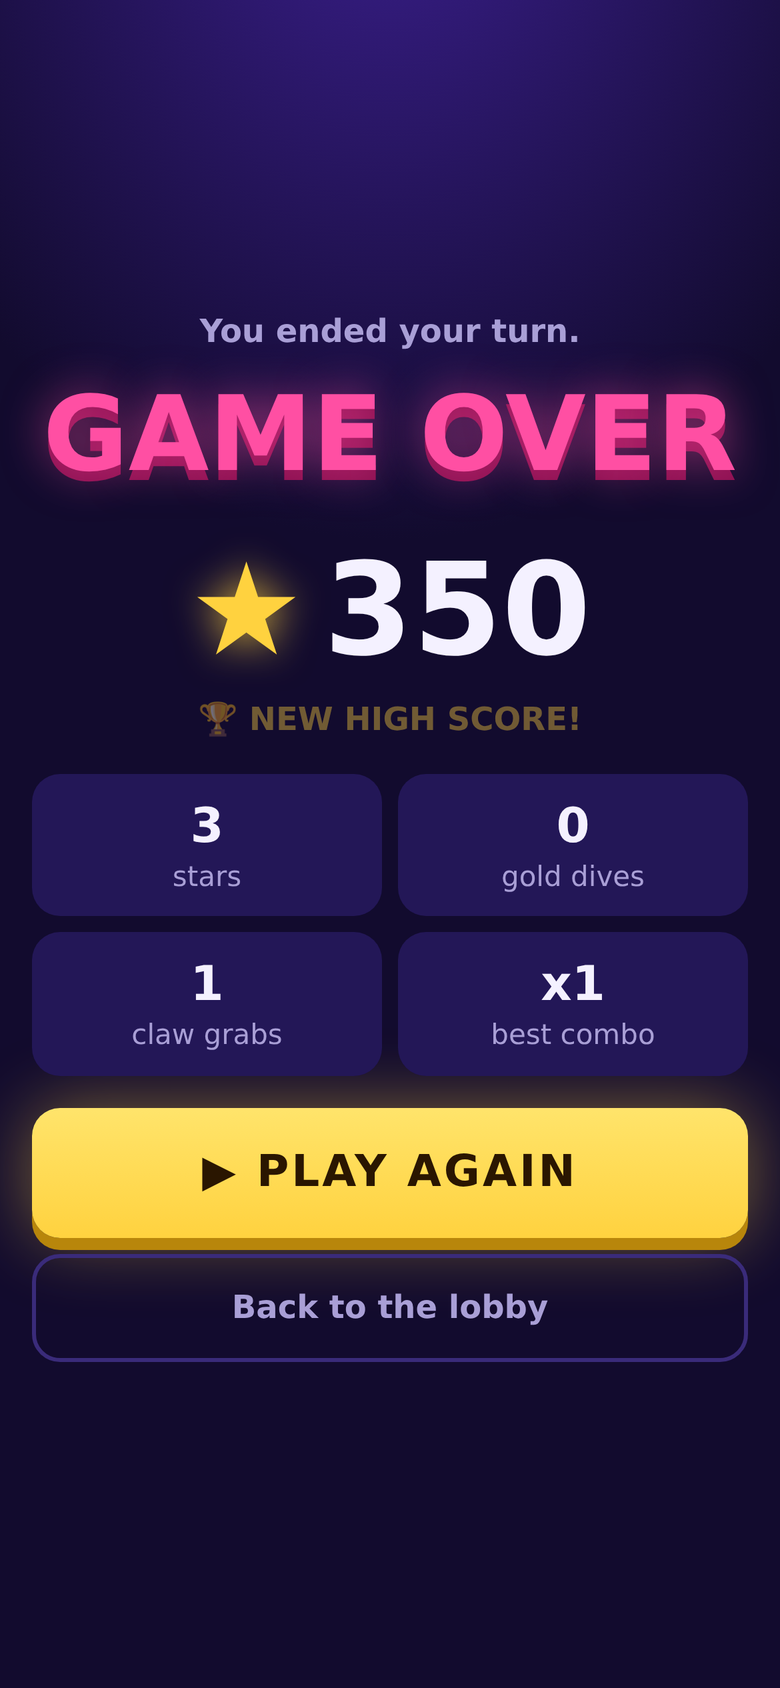
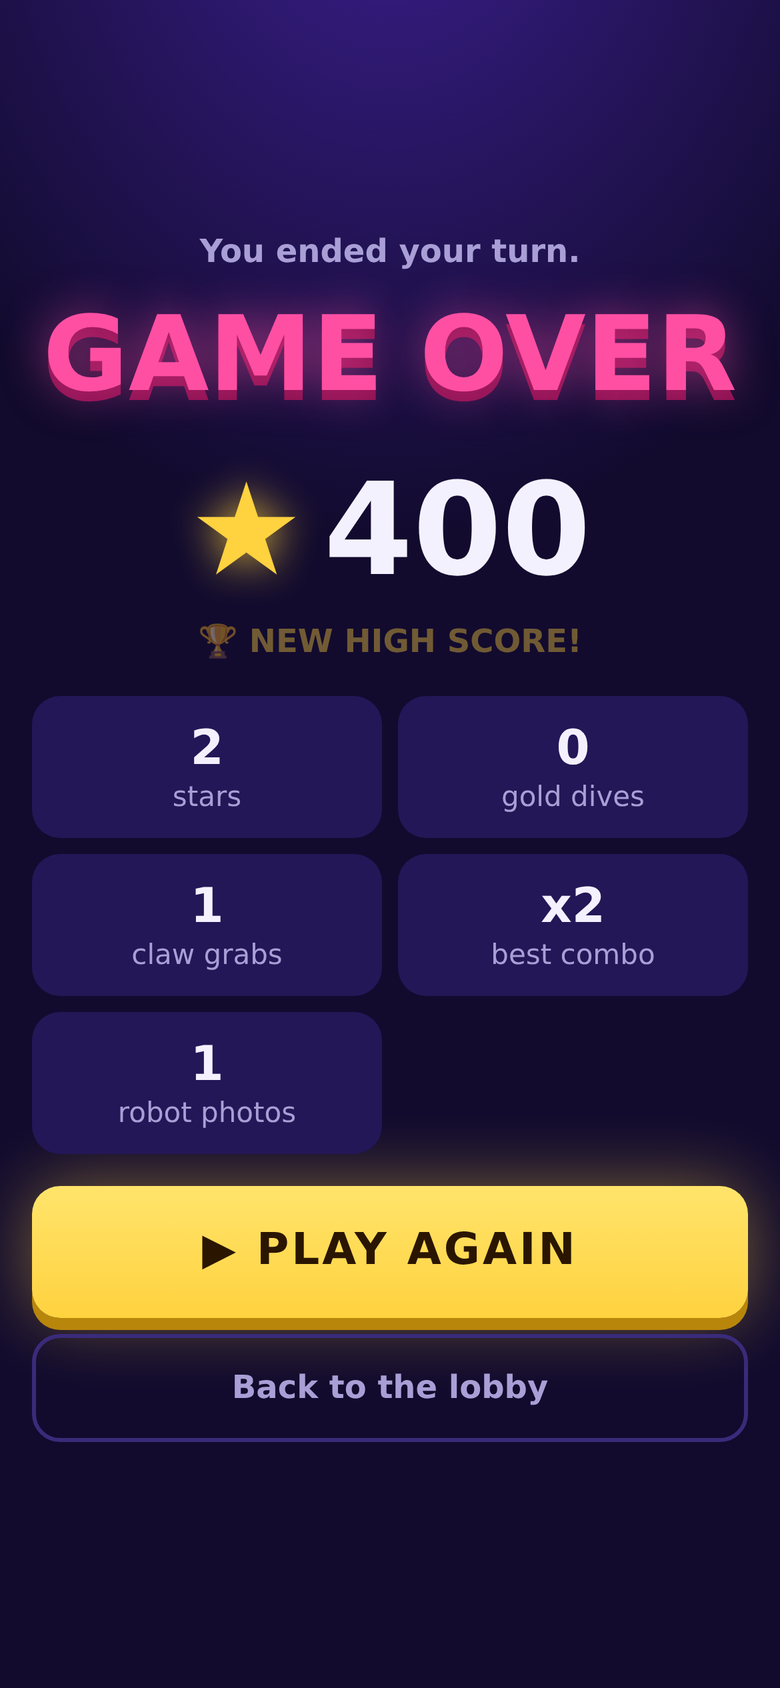
Arcade notebook: camera games, chess/pick switches, where picking stands
Notebook entry (what works on the arm, the switches, the relay, the two
camera games, two fixes, the forward-pointing claw insight), smoke test
covering the camera games, new screens; README sections; PROGRESS.

diff --git a/experiments/2026-10-30-arcade-phone/LOG.md b/experiments/2026-10-30-arcade-phone/LOG.md
@@ -2,7 +2,7 @@
 
 **Experimenters:** Naman (idea) + Claude (build on serenity, no arm)
 **Goal:** A second phone experience for open play that feels like a game, not like driving a JCB. The classic page (`openplay/static/play.html`) gives people levers: a Slow/Normal switch, a grip slider, two joysticks labelled away/toward/up/down/twist, joint bars. Make one more version where each thumb has one verb and there is something to *do* (a goal, a score), on the same protocol and safety model.
-**Status:** built; mock-daemon end to end green; real arm next (laptop).
+**Status:** built (claw game + Robot Eyes + Claw Cam); mock-daemon end to end green with a synthetic camera; real phone, camera and arm next (laptop).
 
 Branch `arcade-phone` (fork). Page: `openplay/static/arcade.{html,css,js}`, served at `/arcade`; `--phone-ui arcade` puts it on the QR.
 
@@ -57,9 +57,45 @@ CHROME_PATH=<chrome> NODE_PATH=<dir with playwright> node experiments/2026-10-30
 
 Screens ([screens/](screens/)): [lobby](screens/1-lobby.png), [how to play + PRESS START](screens/2-intro.png), [steering](screens/3-steering.png), [dropping](screens/4-dropping.png), [grab → coming back](screens/5-grab-return.png), [score and a gold dive star](screens/6-score.png), [menu](screens/7-menu.png), [game over](screens/8-game-over.png).
 
+## 2026-10-30 14:35–14:50 IST: camera games, chess / pick off on the real arm (serenity, mock daemon)
+
+Naman: "is pick up object working at all? … two more game modes … disable chess and pickup if we can't pick up. Game mode 1: look at the camera, just stream the camera, and have fun with it. Game mode 2: … at least a camera feed into the phone."
+
+**Observation: where picking stands (from the notebooks, nothing run today).** On the real arm the purple ball was picked up on 29 Oct with the CLI (`look_and_grasp --finder blob` with hand-tuned flags, [first-pick](../2026-10-29-first-pick/LOG.md)). Chess pieces failed: the pinch closed on a round head and slipped ([chess](../2026-10-29-chess/LOG.md)). The phone's **Pick it up** mode has only run in simulation; open play on the arm was only used for driving and moves. So: picking works in a narrow, tuned case from the command line, not from the phone.
+
+**Decision: `--chess` / `--pick auto|on|off`.** `auto` (default) offers them on phones only in rehearsal (mock backend or the DimOS sim); `on` also on the real arm, and only while they could run (calibrated board / camera); `off` refuses their ops. Visibility lives in `OpenPlay.phone_features()`; the server-side refusals (uncalibrated board, camera) are unchanged, so the existing chess and pick tests keep their meaning. The server re-sends `welcome` when the arm connects (that's when it knows mock / sim / real).
+
+**Built: the camera relay** ([`openplay/cam.py`](../../openplay/cam.py)). One thread pulls JPEGs from the lab console (`--cam console`, default; `$VISION_DASHBOARD_URL`), shrinks them to 640 px and keeps the latest, only while someone asked in the last 3 s (plus a probe every 15 s so `features.cam` is current). `GET /cam.jpg?pid=&after=` on the phone listener, active player only (Wi-Fi), long-polls for a newer frame. `--cam test` draws a synthetic scene (wall with three cartoon faces, table, blobs) that slides with j1/j4, for rehearsals and these screenshots. Read-only.
+
+**Built: two camera games in the arcade** (tabs at the top: 🕹 Claw · 👀 Robot Eyes · 🎥 Claw Cam; the tabs only appear while the camera answers):
+- **👀 Robot Eyes:** the phone shows the wrist camera with a robot HUD. Drag to look around: joint-velocity stream `qd = [−0.6·dx, 0, 0, −0.6·dy, 0, 0]` (base turns, wrist tilts; full drag 0.3 rad/s at the default `joint_rps`). Directions from FK: at ready the camera looks down the table and a little up (direction (0.96, 0, 0.30)); +j4 raises it ((0.62, 0, 0.78) at j4 = 0.6), +j1 turns it left. Filters drawn on the phone: 🤖 Robot (green scanlines), 🔥 Thermal, 👾 8-bit, 💥 Comic. **📸 SNAP:** 3-2-1, flash, a framed 1080×1350 photo ("SEEN BY THE ROBOT", name, date) to save or share (Web Share with a file where the phone supports it). +50 for the first three photos. 👋 plays the library's wave.
+- **🎥 Claw Cam:** the claw game from the claw's eye: the same steer (base frame, never flipped) and DROP, the camera picture with a crosshair and the claw's height above the table.
+
+**Problem / Fix:** the new tab buttons were styled with `.game`, which is also the class of the game screen itself (`section.screen.game`): the whole turn screen became a pill shape, clipping the HUD and swallowing the menu tap. Renamed to `.gametab`.
+
+**Problem / Fix:** a 16:9 camera frame cover-fitted into the tall arena showed only the middle third. The viewfinder now fits the whole frame (`contain`); only the photo crops (`cover`).
+
+**Insight:** at the ready pose the claw points forward and slightly up, not down. Cartesian streaming keeps that orientation, so the claw game's DROP lowers a forward-pointing gripper (it grabs from the side). A fingers-down "claw pose" (taught with Poses on the arm, then used as the claw game's start instead of Ready) would make it a real claw machine. Next on the arm.
+
+### Test (mock daemon + `--cam test`, serenity)
+
+Same environment as above; open play started with `--phone-ui arcade --cam test`. [`arcade_smoke.cjs`](arcade_smoke.cjs) now also opens Robot Eyes, drags up-right for 1.2 s, picks Thermal, snaps a photo, and opens Claw Cam:
+
+```
+{"dx_away":0.140,"dropped":0.123,"busyAfterDrop":"ready","gripAfter":0,"scoreBefore":50,"scoreAfter":350,
+ "eyes":{"dj1":-0.254,"dj4":0.310,"photos":1},"errors":[]}
+```
+
+- **Observation:** drag right turned the base right (j1 −0.25 rad), drag up raised the camera (j4 +0.31 rad); the photo was made; no page errors.
+- `pytest openplay/tests`: 146 passed, 7 failed, all in `test_chess.py` and all failing on clean `main` on serenity too (the repo's `workcell.json` is now `calibrated: true`, which these tests assume is false; one flaky). New: [`openplay/tests/test_modes.py`](../../openplay/tests/test_modes.py) (auto / on / off visibility and refusals, the relay's frames and failure reporting, the synthetic frame).
+
+Screens: [Robot Eyes](screens/9-robot-eyes.png), [Thermal](screens/10-robot-eyes-thermal.png), [the photo](screens/11-photo.png), [Claw Cam](screens/12-claw-cam.png) (the test camera).
+
 ### Next (laptop, with the arm)
-1. Mock first on the laptop: `--phone-ui arcade`, play on a real phone over the LAN; check the feel of the floating stick and DROP with real touch latency.
-2. DimOS sim, then the real arm with someone at the E-STOP: does the angled map match what people see from where they stand? (Menu → Flip the map if they stand across the table.) Does `DROP_FLOOR_Z` = 0.03 stop at a sensible height over the real table? Do the gold stars' dives stay clear of whatever is on the table?
-3. Watch real people play: do they find DROP without being told? Is 0.08 m/s too slow for a game (`--lin-mps`)?
+1. Mock first on the laptop: `--phone-ui arcade`, play on a real phone over the LAN; check the feel of the floating stick and DROP with real touch latency. With the lab console running, `--cam console`: does the relay keep up on the event Wi-Fi (frame rate on the phone, the console's camera load)?
+2. Robot Eyes on the arm: is 0.3 rad/s a good look-around speed? Do people find the photo? Watch j4's temperature (looking up holds the wrist under load).
+3. Teach a fingers-down claw pose and make it the claw game's start pose.
+4. DimOS sim, then the real arm with someone at the E-STOP: does the angled map match what people see from where they stand? (Menu → Flip the map if they stand across the table.) Does `DROP_FLOOR_Z` = 0.03 stop at a sensible height over the real table? Do the gold stars' dives stay clear of whatever is on the table?
+5. Watch real people play: do they find DROP without being told? Is 0.08 m/s too slow for a game (`--lin-mps`)?
 
 **Ideas:** a two-finger twist on the map for yaw; real prizes (a few foam blocks on the table and the wrist camera confirming a grab, from `interfaces/wristcam`) instead of +50 for any drop; the score and a "now playing" claw view on the laptop display; a shared high-score table on the server.

diff --git a/PROGRESS.md b/PROGRESS.md
@@ -10,14 +10,18 @@ What got done, when, how it was checked, and what's next. Newest session on top.
 
 ---
 
-## 2026-10-30 (13:30–14:35 IST): arcade phone page (serenity; no arm), branch `arcade-phone`
+## 2026-10-30 (13:30–14:50 IST): arcade phone page + camera games, chess/pick off on the real arm (serenity; no arm), branch `arcade-phone`
 
 - 🧪 **Open play, arcade version** ([experiments/2026-10-30-arcade-phone/LOG.md](experiments/2026-10-30-arcade-phone/LOG.md), [openplay/README.md § Arcade](openplay/README.md#arcade-the-same-thing-as-a-claw-machine-game)): a second phone page at `/arcade` that plays like a claw machine instead of a set of levers. Drag on an angled map to steer, hold DROP / let go to grab and come back, stars, gold dive stars, combos, score, emotes, Ask it. Same protocol and safety model; STOP above every overlay. `--phone-ui arcade` puts it on the QR (default stays classic).
 - 🧪 Server: `/arcade` + `/classic` routes, `--phone-ui`, `welcome.limits` (the daemon's soft joint limits), `ui` in the hello trace. New e2e test `test_arcade_page`.
 - Checked on the mock daemon with headless Chromium at phone size: steering moved the tip 14 cm in the dragged direction, DROP lowered it 12 cm, letting go shut the claw and ran Ready, stars scored. `openplay/tests`: only the 7 chess failures that clean `main` also has on serenity.
 
+- 🧪 **Two camera games in the arcade** (14:35–14:50): 👀 **Robot Eyes** (the wrist camera on the phone, drag to look around, filters, 📸 a framed photo to save or share) and 🎥 **Claw Cam** (the claw game from the claw's eye). `openplay/cam.py` relays the lab console's camera to the active player (`--cam console|test|off`, `GET /cam.jpg`).
+- ❗ **Chess and Pick it up are now off on the real arm by default** (`--chess` / `--pick auto|on|off`; auto = rehearsal only). Picking works on the arm only in the tuned CLI case (purple ball); chess pinches slipped; the phone's Pick it up never ran on the arm. Pass `--pick on` / `--chess on` to offer them.
+- Checked on the mock with a synthetic camera: look-around moved j1/j4 the right way, the photo was made. `openplay/tests`: 146 passed; the 7 failures are chess tests that fail on clean `main` too.
+
 ### Next
-1. ⏳ Laptop: `--phone-ui arcade` on the mock with a real phone, then DimOS sim, then the real arm with someone at the E-STOP (LOG "Next").
+1. ⏳ Laptop: `--phone-ui arcade` on the mock with a real phone, then with the console camera (`--cam console`), then DimOS sim, then the real arm with someone at the E-STOP (LOG "Next").
 
 ---
 

diff --git a/openplay/README.md b/openplay/README.md
@@ -24,9 +24,20 @@ A second phone page, `/arcade` ([`static/arcade.html`](static/arcade.html)), for
 - **Hold DROP** to lower the claw. **Let go**: it shuts and comes back up to Ready.
 - **Stars** to fly the claw into (+100), **gold ⬇ stars** you dive to (+250), combos for quick chains, a score and a best score on the phone. **Emotes** are the library moves; **✨ Ask it** is Say it.
 
+Two more games when the wrist camera is available (tabs at the top of the game; `--cam`):
+
+- **👀 Robot Eyes:** the phone shows what the robot sees. Drag to look around (the base turns, the wrist tilts: joint velocities), pick a filter (🤖 Robot HUD, 🔥 Thermal, 👾 8-bit, 💥 Comic), **📸 SNAP** for a 3-2-1 framed photo ("Seen by the robot", your name, the date) to save or share, 👋 to make it wave at you.
+- **🎥 Claw Cam:** the claw game from the claw's own eye: the same steer and DROP, the camera picture instead of the map.
+
+The frames come from the lab console's camera (`--cam console`, the default; the server relays them only to the player whose turn it is, ≤ 10 fps at 640 px), `--cam test` draws a synthetic picture for rehearsals, `--cam off` hides the camera games.
+
 It speaks the same protocol (`stream`, `grip`, `ready`, `move`, `say`, `stop`), so everything in the safety model below applies unchanged; STOP stays on screen above every overlay. Two phone-side conveniences are *not* safety limits: DROP stops at 6 cm above the table (`DROP_FLOOR_Z`), and soft walls keep the claw inside the reach ring and the daemon's j1 soft limits (`welcome.limits`).
 
 Run open play with `--phone-ui arcade` to put it on the QR. `/arcade` and `/classic` always work, whichever `/` serves, and each page links to the other. Notebook: [experiments/2026-10-30-arcade-phone](../experiments/2026-10-30-arcade-phone/LOG.md).
+
+## Chess and Pick it up: off on the real arm unless you ask
+
+`--chess` and `--pick` take `auto` (default), `on` or `off`. **auto** offers them on phones only in rehearsal (mock backend or the DimOS sim), because on the real arm neither works reliably yet: the purple ball was picked with the hand-tuned `look_and_grasp` CLI, the pinch on chess pieces slipped, and the phone's Pick it up has never run on the arm. **on** offers them on the real arm too, and only while they could run (board / camera calibrated). **off** refuses their ops. The classic page's mode cards follow `welcome.features`, so nothing else changes.
 
 ## Safety model
 

diff --git a/experiments/README.md b/experiments/README.md
@@ -29,7 +29,7 @@ Safety rules carry across all experiments: start folded on the stops, probe befo
 | [2026-10-29-pick-anything](2026-10-29-pick-anything/LOG.md) | Naman (goal) + Claude (cloud build) | Pick up anything you name: open-vocabulary masks (YOLO-E via DimOS, Claude fallback) into the tap path's geometry and closed loop; `pick_anything` CLI; follow by name | built; synthetic tests green; YOLO-E on the laptop GPU next |
 | [2026-10-29-reuse](2026-10-29-reuse/REPORT.md) | Naman (question) + Claude (research agents) | Who already solved detect / follow / pick: DimOS ships YOLO-E open-vocabulary detection, a CSRT + PID drone follower and an agentic pick-and-place (xArm + depth only); what to replace in our code and what to keep | done (desk research); port next |
 | [2026-10-29-follow](2026-10-29-follow/LOG.md) | Naman (idea) + Claude (cloud build) | Continuous tracking + visual-servo following: the wrist camera tracks the object at frame rate (fast patch tracker re-anchored by the slow finders, Kalman with capture-time stamps), and the arm keeps the camera over it by streaming joint velocities through the deadman ([`interfaces/follow/`](../interfaces/follow/README.md)) | built; synthetic sim + mock-daemon e2e green; real-arm dry run next |
-| [2026-10-30-arcade-phone](2026-10-30-arcade-phone/LOG.md) | Naman (idea) + Claude (serenity build) | Open play as a game, not levers: a claw-machine phone page (`/arcade`, `--phone-ui arcade`): drag on an angled map to steer, hold DROP / let go to grab, stars, combos, score, emotes; same protocol and safety | built; mock-daemon e2e green; real phone + arm next |
+| [2026-10-30-arcade-phone](2026-10-30-arcade-phone/LOG.md) | Naman (idea) + Claude (serenity build) | Open play as a game, not levers: a claw-machine phone page (`/arcade`, `--phone-ui arcade`): drag on an angled map to steer, hold DROP / let go to grab, stars, combos, score, emotes; camera games Robot Eyes (look around, filters, photo) and Claw Cam; chess / pick off on the real arm by default | built; mock-daemon e2e green (synthetic camera); real phone, camera + arm next |
 | [2026-10-28-wristcam](2026-10-28-wristcam/LOG.md) | Naman (+ Claude) | Wrist camera: calibrate (lens, hand-eye, table) from one taped sheet; find a cup and grasp it in a closed loop | active: synthetic tests green; real-arm calibration next |
 
 ## Ideas backlog
